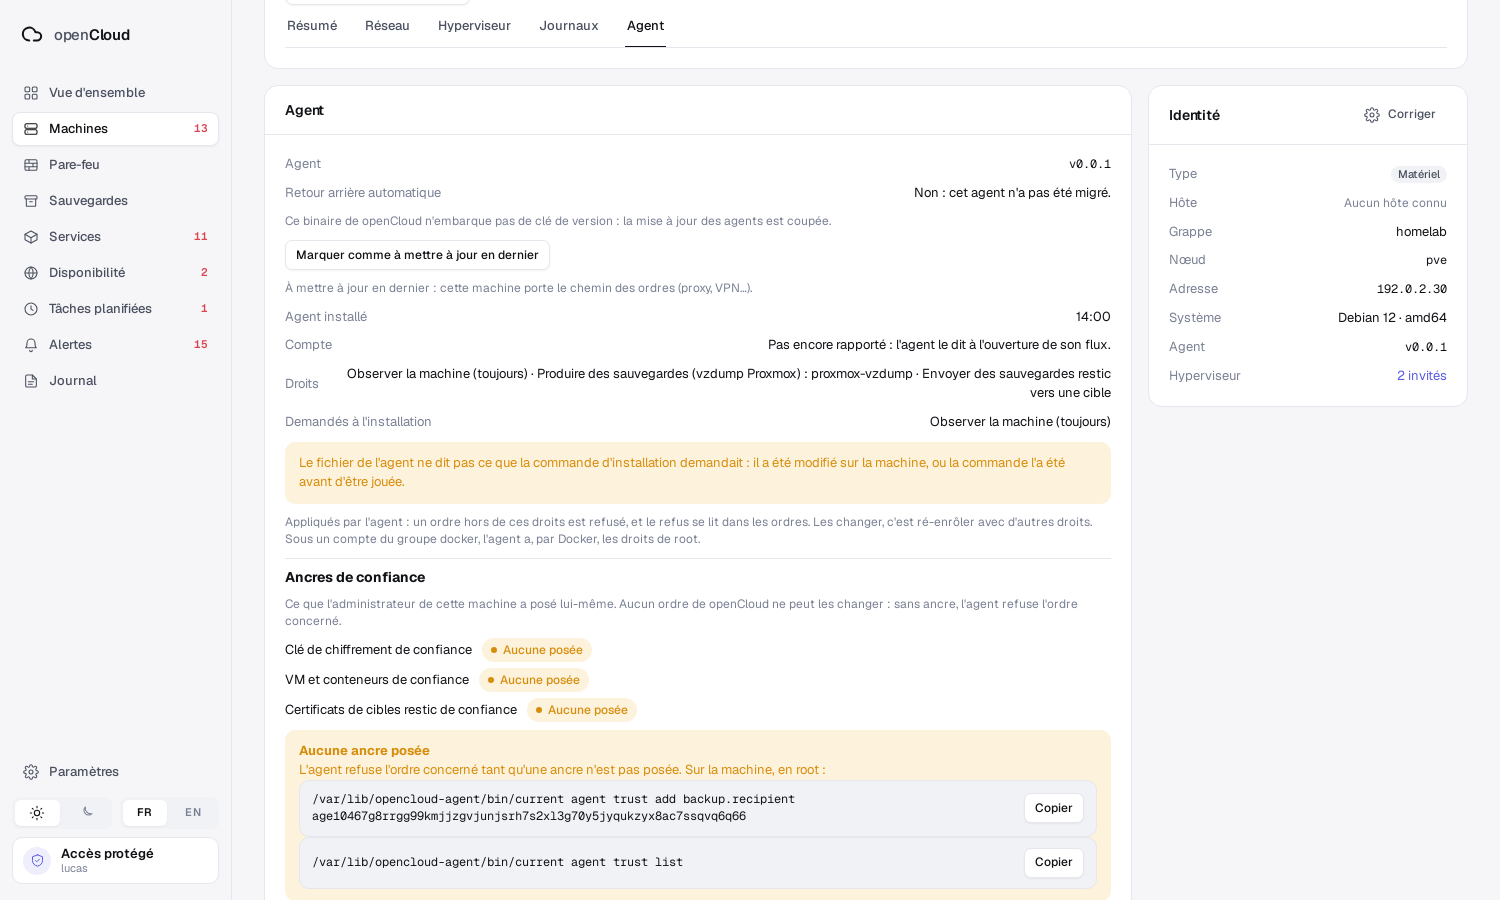
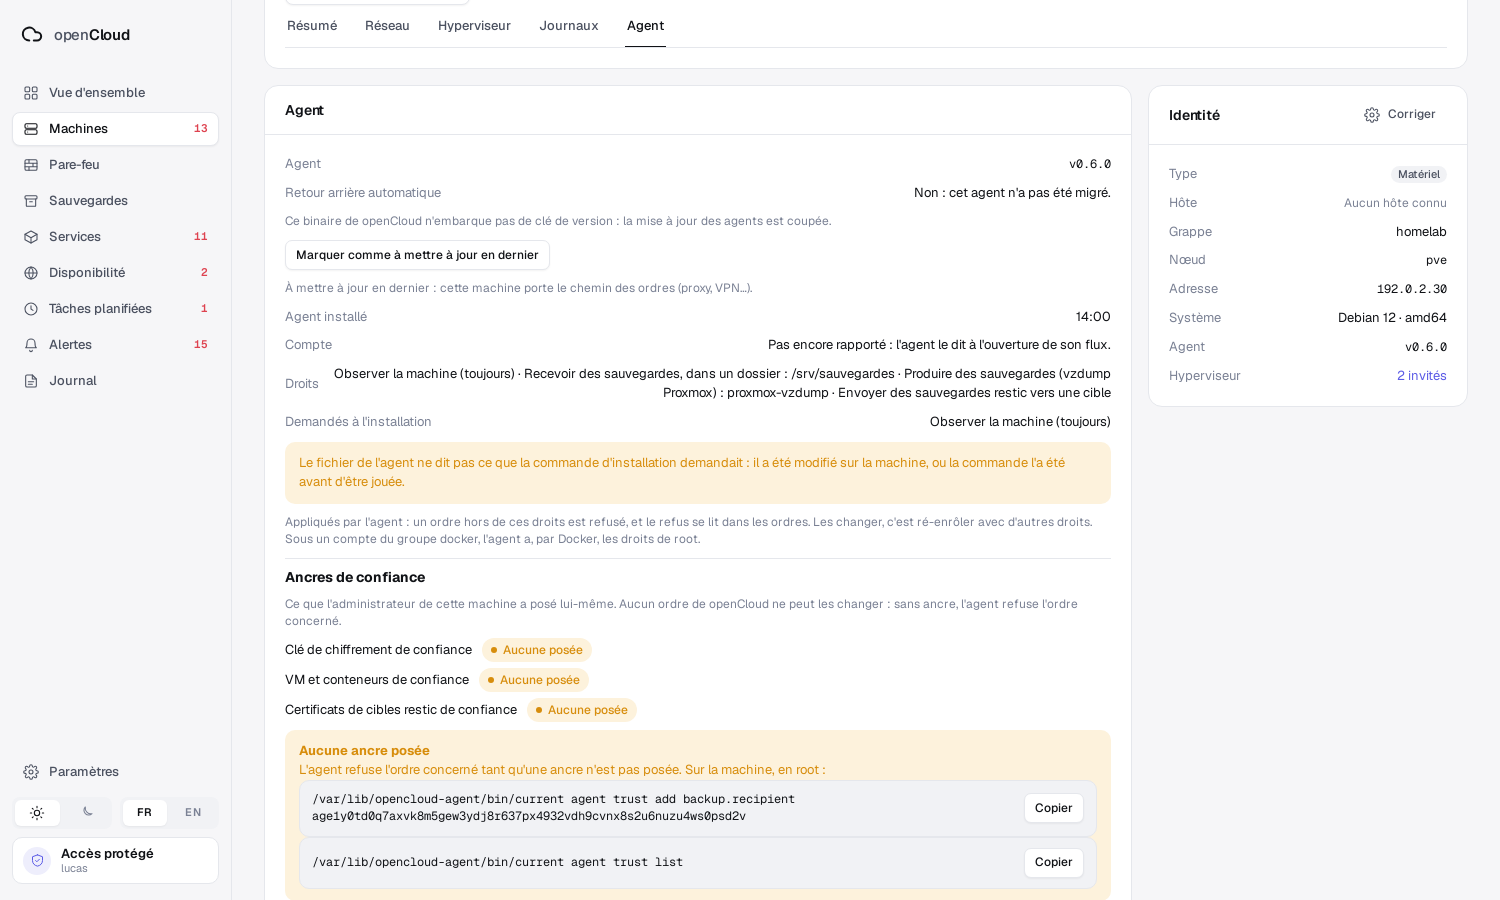
fix(ancres): la commande à lancer partout où un refus d'ancre s'affiche
Fait avec Claude

Changed region(s): [[0.2147, 0.4044, 0.736, 0.4667], [0.2147, 0.9022, 0.4907, 0.9333]]

diff --git a/web/e2e/ancres-locales.spec.ts b/web/e2e/ancres-locales.spec.ts
@@ -94,3 +94,20 @@ test("un ordre que les ancres feraient refuser n'est pas envoyé : le refus donn
   await dialog.getByRole("button", { name: label("machine.copy") }).click();
   expect(findings.unknown()).toEqual([]);
 });
+
+test("page Sauvegardes : la dernière passe d'un plan refusée par une ancre dit pourquoi et donne la commande", async ({ page, findings }) => {
+  findings.where = "/sauvegardes (plan compta)";
+  await page.clock.setFixedTime(new Date("2026-09-12T12:00:00Z"));
+  await page.goto("/sauvegardes");
+  const card = page.locator("article.backup-source").filter({ has: page.locator("h3", { hasText: /^compta$/ }) });
+  await card.scrollIntoViewIfNeeded();
+  await expect(card).toContainText(label("backup.status_protection_refused"));
+  // La phrase ne dit pas que seul l'agent refuse : le serveur n'envoie pas l'ordre qu'il sait refusé.
+  await expect(card).toContainText(/Ordre refusé : aucune ancre « Clé de chiffrement de confiance »/);
+  const fix = card.locator(".anchor-fix");
+  await expect(fix).toContainText(label("anchor.run_command"));
+  await expect(fix.locator(".token-box code")).toContainText(/agent trust add backup\.recipient age1[a-z0-9]+/);
+  await fix.getByRole("button", { name: label("machine.copy") }).click();
+  await expect(fix.getByRole("button", { name: new RegExp(`${label("machine.copied")}|${label("machine.copy_failed")}`) })).toBeVisible();
+  expect(findings.unknown()).toEqual([]);
+});

diff --git a/web/src/components/ActionsCard.tsx b/web/src/components/ActionsCard.tsx
@@ -11,7 +11,7 @@ import { formatWhen } from "../lib/time";
 import { AgentGate } from "./AgentGate";
 import { Button } from "./Button";
 import { Card, CardBody, CardHeader, Empty, KeyValue, Note } from "./Card";
-import { TokenBox } from "./Copy";
+import { AnchorFix } from "./AnchorFix";
 import { Failure } from "./Failure";
 import { MissingRightButton } from "./MissingRight";
 import { Pill } from "./Pill";
@@ -140,12 +140,7 @@ function RunRow({ run, now }: { run: ActionRun; now: number }) {
       <td>
         <Pill tone={stateTones[run.state]}>{t(`action.state_${run.state}`)}</Pill>
         {run.reason !== "" && <div className="secondary">{reasonText(t, run.reason)}</div>}
-        {run.fix_command !== undefined && run.fix_command !== "" && (
-          <div>
-            <p className="secondary">{t("anchor.run_command")}</p>
-            <TokenBox value={run.fix_command} />
-          </div>
-        )}
+        {run.fix_command !== undefined && run.fix_command !== "" && <AnchorFix command={run.fix_command} exact={run.fix_exact === true} machineID={run.machine_id} />}
         {missing !== null && run.machine_id !== null && <MissingRightButton machineID={run.machine_id} right={missing} />}
         {run.reason === "server_key_missing" && run.machine_id !== null && <ReenrollButton machineID={run.machine_id} />}
         {output !== "" && <pre className="secondary">{output}</pre>}

diff --git a/web/src/lib/anchors.ts b/web/src/lib/anchors.ts
@@ -112,13 +112,20 @@ export function anchorOfReason(reason: string): { why: "missing" | "unreadable" 
 // La commande que le serveur joint au refus d'un ordre qu'une ancre ferait
 // refuser (le 409 de anchor.*) : à lancer en root sur la machine. null pour tout
 // autre refus.
-export function commandOfRefusal(error: ApiError | string | null | undefined): string | null {
+// exact : la commande pose la valeur de l'ordre ; sinon c'est « trust list »,
+// et l'écran renvoie à la fiche de la machine.
+export interface AnchorFixCommand {
+  command: string;
+  exact: boolean;
+}
+
+export function commandOfRefusal(error: ApiError | string | null | undefined): AnchorFixCommand | null {
   if (error === null || error === undefined || typeof error === "string") {
     return null;
   }
   const payload = error.payload;
-  if (typeof payload !== "object" || payload === null || !("command" in payload)) {
+  if (typeof payload !== "object" || payload === null || !("command" in payload) || typeof payload.command !== "string" || payload.command === "") {
     return null;
   }
-  return typeof payload.command === "string" && payload.command !== "" ? payload.command : null;
+  return { command: payload.command, exact: "command_exact" in payload && payload.command_exact === true };
 }

diff --git a/web/src/components/Failure.tsx b/web/src/components/Failure.tsx
@@ -3,7 +3,7 @@ import { useT } from "../i18n/context";
 import { commandOfRefusal } from "../lib/anchors";
 import { rightOfRefusal } from "../lib/rights";
 import { Note } from "./Card";
-import { TokenBox } from "./Copy";
+import { AnchorFix } from "./AnchorFix";
 import { MissingRightButton } from "./MissingRight";
 
 // Où un refus de droit mène : la machine dont l'agent manque du droit, le
@@ -27,13 +27,12 @@ export function Failure({ error, gesture }: { error: ApiError | string | null | 
   const key = typeof error === "string" ? error : errorKey(error);
   // Une ancre de confiance locale a fait refuser l'ordre : le serveur joint la
   // commande que l'administrateur lance sur la machine pour la poser.
-  const command = commandOfRefusal(error);
-  if (command !== null) {
+  const fix = commandOfRefusal(error);
+  if (fix !== null) {
     return (
       <Note tone="danger">
         <p>{t(key)}</p>
-        <p className="secondary">{t("anchor.run_command")}</p>
-        <TokenBox value={command} />
+        <AnchorFix command={fix.command} exact={fix.exact} machineID={gesture?.machineID} />
       </Note>
     );
   }

diff --git a/web/src/pages/backups/SourceCard.tsx b/web/src/pages/backups/SourceCard.tsx
@@ -2,6 +2,7 @@ import { type ReactNode } from "react";
 
 import { type BackupMachine, type BackupOverview, type BackupProtection, type BackupSource } from "../../api/backups";
 import { reasonText } from "../../components/ActionsCard";
+import { AnchorFix } from "../../components/AnchorFix";
 import { Button } from "../../components/Button";
 import { TokenBox } from "../../components/Copy";
 import { Failure } from "../../components/Failure";
@@ -376,6 +377,7 @@ function ProtectionState({ source, protection, machines }: { source: BackupSourc
           </Pill>
           <span>{protectionReasonText(t, protection.reason, (reason) => reasonText(t, reason)) || t("backup.reason_unreported")}</span>
         </div>
+        {protection.fix_command !== undefined && protection.fix_command !== "" && <AnchorFix command={protection.fix_command} exact={protection.fix_exact === true} machineID={source.machine_id} />}
         {right !== null && <MissingRightButton machineID={machineID} right={right} short />}
         {missing !== null && holder !== undefined && <InstallBlock software={missing} machine={holder} />}
       </div>

diff --git a/web/src/components/Failure.test.tsx b/web/src/components/Failure.test.tsx
@@ -39,6 +39,14 @@ test("le droit que le refus ne nomme pas vient de l'écran", () => {
   expect(render(refused, { machineID: "m1", right: "files.write" })).toContain('href="/machines/m1/reenroller?droit=files.write"');
 });
 
+test("sans valeur connue, la commande est « trust list » et un lien mène à la fiche, onglet Agent", () => {
+  const refused = new ApiError(409, "anchor.restic_target_cert_missing", { command: "/x agent trust list" });
+  const markup = render(refused, { machineID: "m3" });
+  expect(markup).toContain("/x agent trust list");
+  expect(markup).toContain('href="/machines/m3/agent"');
+  expect(render(new ApiError(409, "a", { command: "/x agent trust add a b", command_exact: true }), { machineID: "m3" })).not.toContain("<a ");
+});
+
 test("un refus par ancre locale montre la commande à lancer en root sur la machine", () => {
   const refused = new ApiError(409, "anchor.backup_guest_missing", { error: "anchor.backup_guest_missing", command: "/var/lib/opencloud-agent/bin/current agent trust add backup.guest 5012" });
   const markup = render(refused);

diff --git a/web/src/components/AnchorFix.tsx b/web/src/components/AnchorFix.tsx
@@ -1,0 +1,20 @@
+import { Link } from "react-router";
+
+import { useT } from "../i18n/context";
+import { TokenBox } from "./Copy";
+
+// La commande à lancer en root sur la machine quand une ancre de confiance
+// locale a fait refuser un ordre : l'unique endroit qui la montre (refus d'une
+// requête, ordre refusé, sauvegarde refusée). exact : elle pose la valeur de
+// l'ordre. Sinon c'est « trust list », qui montre ce que l'agent tient, avec un
+// lien vers la fiche de la machine, onglet Agent (machineID absent : pas de lien).
+export function AnchorFix({ command, exact, machineID }: { command: string; exact: boolean; machineID: string | null | undefined }) {
+  const t = useT();
+  return (
+    <div className="anchor-fix">
+      <p className="secondary">{t("anchor.run_command")}</p>
+      <TokenBox value={command} />
+      {!exact && machineID !== null && machineID !== undefined && machineID !== "" && <Link to={`/machines/${machineID}/agent`}>{t("anchor.see_machine")}</Link>}
+    </div>
+  );
+}

diff --git a/web/src/lib/anchors.test.ts b/web/src/lib/anchors.test.ts
@@ -85,7 +85,8 @@ test("une raison d'ordre refusé par une ancre nomme son type", () => {
 });
 
 test("la commande d'un refus vient du corps de la réponse", () => {
-  expect(commandOfRefusal(new ApiError(409, "anchor.backup_guest_missing", { error: "anchor.backup_guest_missing", command: "/x agent trust add backup.guest 101" }))).toBe("/x agent trust add backup.guest 101");
+  expect(commandOfRefusal(new ApiError(409, "anchor.backup_guest_missing", { error: "x", command: "/x agent trust add backup.guest 101", command_exact: true }))).toEqual({ command: "/x agent trust add backup.guest 101", exact: true });
+  expect(commandOfRefusal(new ApiError(409, "x", { command: "/x agent trust list" }))).toEqual({ command: "/x agent trust list", exact: false });
   expect(commandOfRefusal(new ApiError(409, "action.right_missing"))).toBeNull();
   expect(commandOfRefusal(new ApiError(409, "x", { command: "" }))).toBeNull();
   expect(commandOfRefusal("anchor.backup_guest_missing")).toBeNull();

diff --git a/web/src/lib/backupOverview.ts b/web/src/lib/backupOverview.ts
@@ -231,12 +231,13 @@ export function pathReasonText(t: Translate, path: BackupPath): string {
 }
 
 // Un refus porte sa clé (« restic.source_right_missing ») ; un mot fermé des
-// ordres passe par leur décodeur.
+// ordres passe par leur décodeur, avec son argument après « : »
+// (« anchor_missing:backup.guest », « right_missing:backup.produce »).
 export function protectionReasonText(t: Translate, reason: string, describeReason: (reason: string) => string): string {
   if (reason === "") {
     return "";
   }
-  return reason.includes(".") ? t(reason) : describeReason(reason);
+  return reason.includes(".") && !reason.includes(":") ? t(reason) : describeReason(reason);
 }
 
 // Le disque d'une cible en trois parts : ce que les sauvegardes y prennent,

diff --git a/web/src/lib/backupOverview.test.ts b/web/src/lib/backupOverview.test.ts
@@ -236,6 +236,8 @@ describe("le chemin direct ou relais", () => {
   it("traduit une clé de refus telle quelle, un mot fermé par le décodeur des ordres", () => {
     expect(protectionReasonText(t, "restic.source_right_missing", () => "decoded")).toBe("restic.source_right_missing");
     expect(protectionReasonText(t, "timeout", (reason) => `decoded ${reason}`)).toBe("decoded timeout");
+    expect(protectionReasonText(t, "anchor_missing:backup.guest", (reason) => `decoded ${reason}`)).toBe("decoded anchor_missing:backup.guest");
+    expect(protectionReasonText(t, "right_missing:backup.produce", (reason) => `decoded ${reason}`)).toBe("decoded right_missing:backup.produce");
     expect(protectionReasonText(t, "", () => "decoded")).toBe("");
   });
 });

diff --git a/web/e2e/captures-ancres.spec.ts b/web/e2e/captures-ancres.spec.ts
@@ -40,3 +40,11 @@ test("la fenêtre Ré-enrôler ouverte : les ancres demandées avec le droit", a
   await expect(dialog.getByLabel(label("anchor.label_backup_recipient"))).toHaveValue(/^age1/);
   await shoot(page, "reenroler");
 });
+
+test("la page Sauvegardes : la passe refusée par une ancre, la commande à coller", async ({ page }) => {
+  await open(page, "/sauvegardes");
+  const card = page.locator("article.backup-source").filter({ has: page.locator("h3", { hasText: /^compta$/ }) });
+  await expect(card.locator(".anchor-fix")).toBeVisible();
+  await card.scrollIntoViewIfNeeded();
+  await shoot(page, "sauvegardes");
+});

diff --git a/web/src/api/contract.test.ts b/web/src/api/contract.test.ts
@@ -955,6 +955,7 @@ const actionRun = shape<ActionRun>("ActionRun", {
   finished_at: value,
   output: shape<RunLine>("RunLine", { at: value, stream: value, line: value }),
   fix_command: optional(value),
+  fix_exact: optional(value),
 });
 
 const actions = shape<ActionsResponse>("ActionsResponse", { runs: actionRun });
@@ -1024,6 +1025,8 @@ const backupProtection = shape<BackupProtection>("BackupProtection", {
   archive_storage: value,
   state: value,
   reason: value,
+  fix_command: optional(value),
+  fix_exact: optional(value),
   last_at: value,
   last_success_at: value,
   next_at: value,
